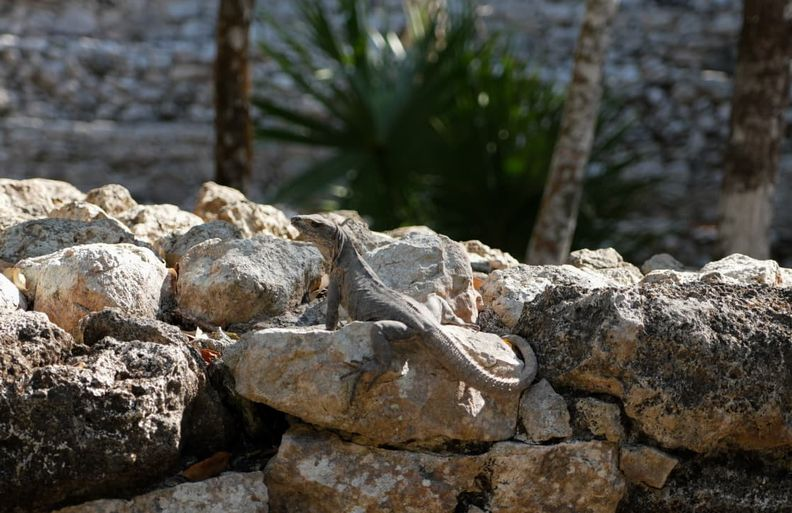
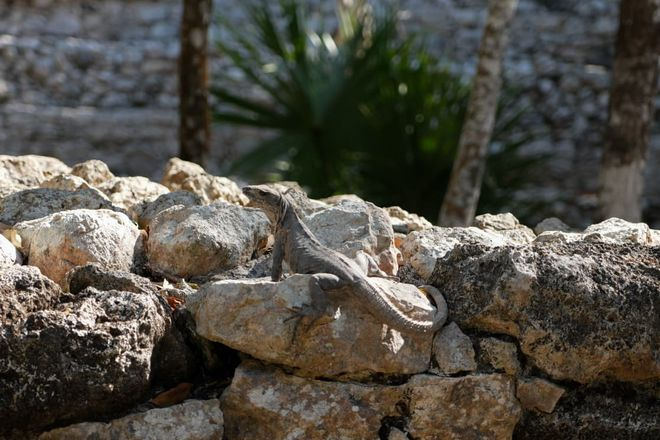
resized pictures to 660x440

diff --git a/assets/photo/photo_converter.py b/assets/photo/photo_converter.py
@@ -6,7 +6,7 @@ output_folder = input_folder / "resized"
 
 output_folder.mkdir(exist_ok=True)
 
-MAX_SIZE = (792, 513)
+MAX_SIZE = (660, 440)
 
 for file in input_folder.iterdir():
 
